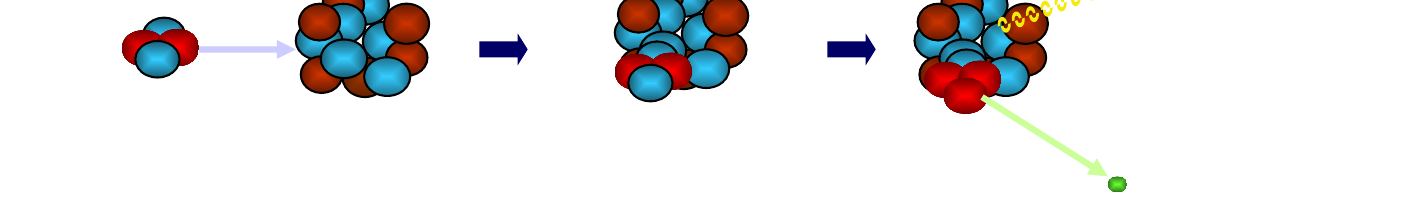
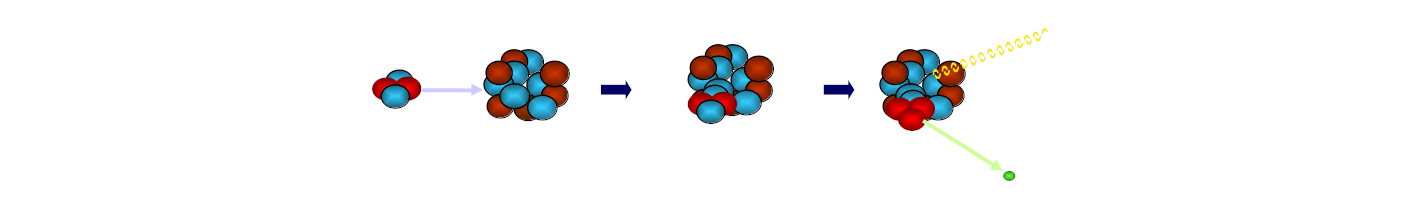
Minor corrections

Changed region(s): [[0.062, 0.0, 0.7746, 0.7143], [0.7437, 0.6857, 0.8056, 0.9143], [0.6817, 0.7143, 0.7127, 0.8571]]

diff --git a/index.html b/index.html
@@ -1586,9 +1586,9 @@
 </div>
 </div>
 <!-- Formula: [-dE/dx]_total = [-dE/dx]_colision + [-dE/dx]_radiacion -->
-<img alt="Fórmula poder de frenado total" src="assets/parte5_10000001000001070000002F9A4421C2.png" style="position:absolute;left:385px;top:180px;width:410px;height:58px;object-fit:contain;"/>
+<img alt="Fórmula poder de frenado total" src="assets/parte5_10000001000001070000002F9A4421C2.png" style="position:absolute;left:385px;top:204px;width:410px;height:58px;object-fit:contain;"/>
 <!-- Text: Poder de frenado másico: -->
-<div style="position:absolute;left:447px;top:258px;font-size:20px;font-family:'Roboto','Liberation Sans',sans-serif;color:#000000;">
+<div style="position:absolute;left:447px;top:270px;font-size:20px;font-family:'Roboto','Liberation Sans',sans-serif;color:#000000;">
           Poder de <span style="color:#800000;font-weight:bold;">frenado másico</span>:
         </div>
 <!-- Formula: [-dE/dx]_M = (1/rho) [-dE/dx] -->
